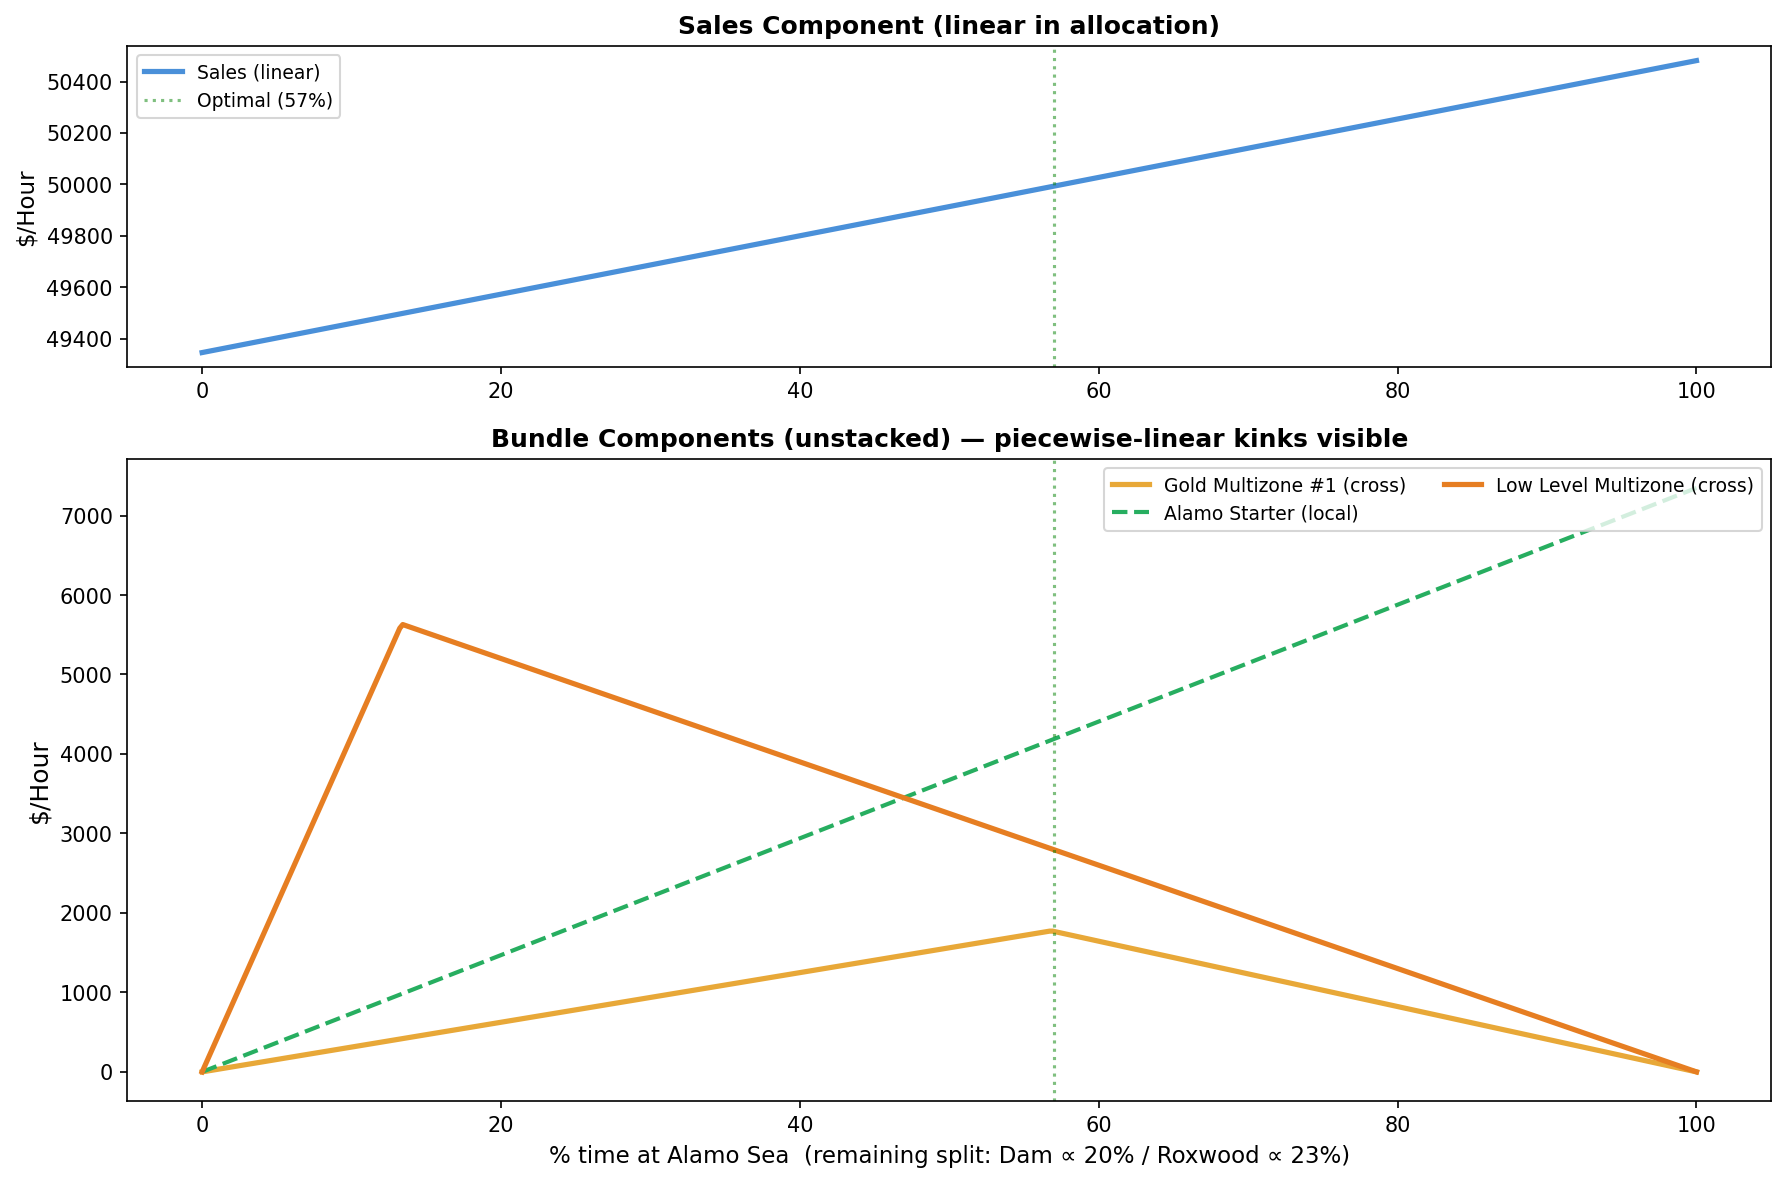
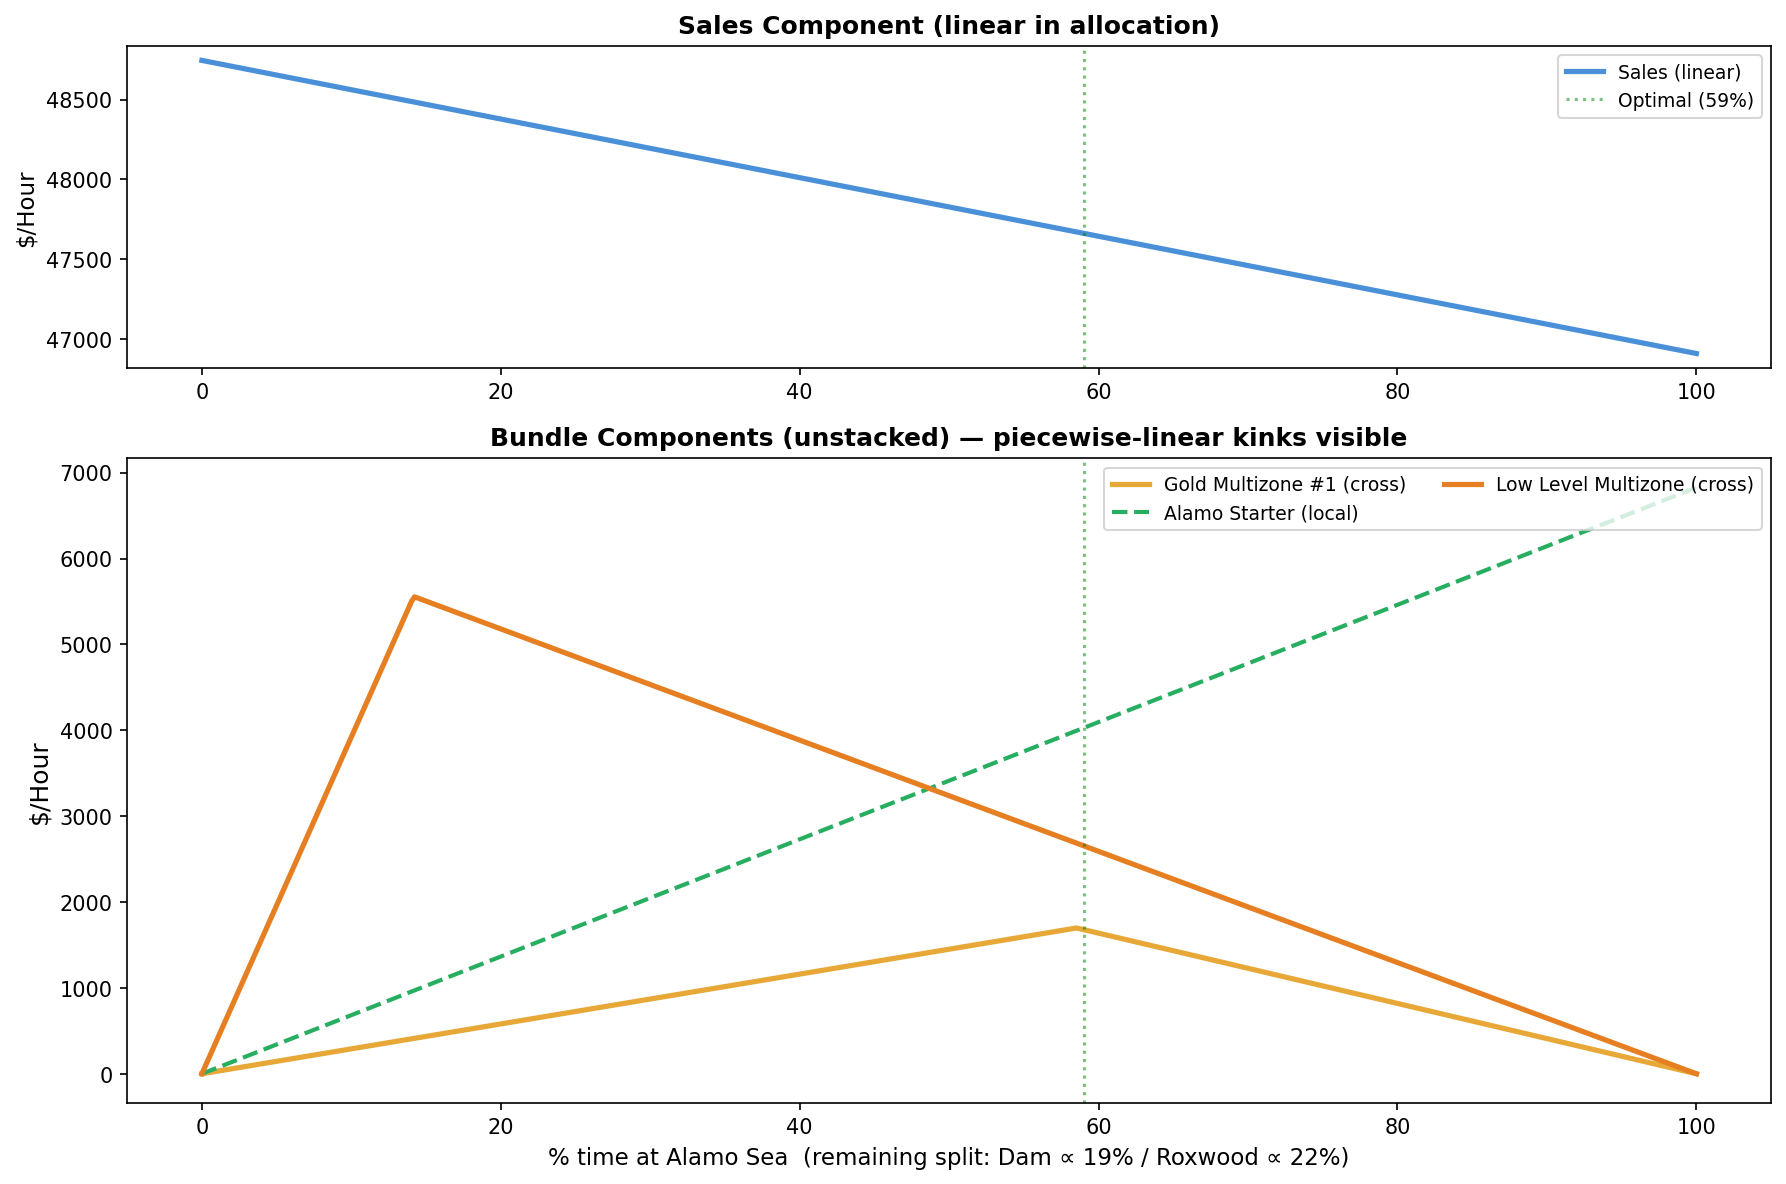
time

diff --git a/sales/constants.py b/sales/constants.py
@@ -161,9 +161,9 @@ SECONDS_WAITING_FOR_BITE: dict[str, int] = {
 }
 SECONDS_WAITING_FOR_BITE_DEFAULT = 100  # for unknown locations
 SECONDS_REELING_IN: dict[str, int] = {
-    "Alamo Sea": 15,
-    "Dam": 115 - SECONDS_WAITING_FOR_BITE["Dam"],
-    "Roxwood": 140 - SECONDS_WAITING_FOR_BITE["Roxwood"],
+    "Alamo Sea": 113 - SECONDS_WAITING_FOR_BITE["Alamo Sea"],
+    "Dam": 117 - SECONDS_WAITING_FOR_BITE["Dam"],
+    "Roxwood": 141 - SECONDS_WAITING_FOR_BITE["Roxwood"],
 }
 SECONDS_REELING_IN_DEFAULT = 30  # for unknown locations
 

diff --git a/sales/comparison.md b/sales/comparison.md
@@ -2,15 +2,15 @@
 
 Detected tier: 3 (Alamo Sea, Dam, Roxwood).
 
-Bite wait by location: Alamo Sea 90s, Dam 90s, Roxwood 100s. Reel-in by location: Alamo Sea 15s, Dam 25s, Roxwood 40s.
+Bite wait by location: Alamo Sea 90s, Dam 90s, Roxwood 100s. Reel-in by location: Alamo Sea 23s, Dam 27s, Roxwood 41s.
 
 ~ = estimated (not yet observed in catch data)
 
 | Location  | Fish Caught | $/Fish observed | $/Fish model | Available Bundles                                     | $/Fish (bundles) | $/Fish total (obs) | $/Fish total (model) | $/Hour (model) |
 |-----------|------------:|----------------:|-------------:|-------------------------------------------------------|-----------------:|-------------------:|---------------------:|---------------:|
-| Alamo Sea |         420 |          $1,472 |       $1,404 | Gold Multizone #1, Alamo Starter, Low Level Multizone |             $655 |             $2,127 |           **$2,059** |        $70,606 |
-| Dam       |         335 |          $1,664 |       $1,664 | Gold Multizone #1, Low Level Multizone                |             $369 |             $2,033 |           **$2,033** |        $63,644 |
-| Roxwood   |         256 |          $1,826 |       $1,849 | Gold Multizone #1, Low Level Multizone                |             $257 |             $2,083 |           **$2,107** |        $54,168 |
+| Alamo Sea |         420 |          $1,472 |       $1,404 | Gold Multizone #1, Alamo Starter, Low Level Multizone |             $655 |             $2,127 |           **$2,059** |        $65,607 |
+| Dam       |         335 |          $1,664 |       $1,664 | Gold Multizone #1, Low Level Multizone                |             $369 |             $2,033 |           **$2,033** |        $62,556 |
+| Roxwood   |         256 |          $1,826 |       $1,849 | Gold Multizone #1, Low Level Multizone                |             $257 |             $2,083 |           **$2,107** |        $53,784 |
 
 ## Optimal Allocation
 
@@ -18,13 +18,13 @@ Optimal time split across locations to maximize total $/hour (considering both s
 
 | Location     | Time % (obs) | $/Fish (obs) | $/Hour (obs) | Time % (model) | $/Fish (model) | $/Hour (model) |
 |--------------|-------------:|-------------:|-------------:|---------------:|---------------:|---------------:|
-| Alamo Sea    |          57% |       $1,472 |      $57,829 |            57% |         $1,404 |        $55,497 |
-| Dam          |          20% |       $1,664 |      $52,096 |            20% |         $1,664 |        $52,096 |
-| Roxwood      |          23% |       $1,826 |      $46,954 |            23% |         $1,849 |        $47,555 |
-| **Combined** |         100% |              |  **$58,744** |           100% |                |    **$57,553** |
+| Alamo Sea    |          59% |       $1,472 |      $53,735 |            15% |         $1,404 |        $51,568 |
+| Dam          |          19% |       $1,664 |      $51,206 |            39% |         $1,664 |        $51,206 |
+| Roxwood      |          22% |       $1,826 |      $46,621 |            46% |         $1,849 |        $47,218 |
+| **Combined** |         100% |              |  **$56,022** |           100% |                |    **$55,377** |
 
-**Observed:** splitting yields **$58,744**/hour vs **$57,829**/hour best solo (+$915/hour, +1.6%).
-**Model:** splitting yields **$57,553**/hour vs **$55,497**/hour best solo (+$2,056/hour, +3.7%).
+**Observed:** splitting yields **$56,022**/hour vs **$53,735**/hour best solo (+$2,288/hour, +4.3%).
+**Model:** splitting yields **$55,377**/hour vs **$51,568**/hour best solo (+$3,809/hour, +7.4%).
 
 ## Bundle Details
 
@@ -32,14 +32,14 @@ Optimal time split across locations to maximize total $/hour (considering both s
 
 | Bundle        | Fish                                     |   Bonus | Avg Fish to Complete | Avg Time | Bonus/Fish | Catch Rates                                                                              |
 |---------------|------------------------------------------|--------:|---------------------:|---------:|-----------:|------------------------------------------------------------------------------------------|
-| Alamo Starter | Morwhong, Southern Tuna, Silver Trevally | $10,000 |                   57 |  101 min |       $174 | Morwhong: 27/420 (6.4%) \| Southern Tuna: 9/420 (2.1%) \| Silver Trevally: 17/420 (4.0%) |
+| Alamo Starter | Morwhong, Southern Tuna, Silver Trevally | $10,000 |                   57 |  108 min |       $174 | Morwhong: 27/420 (6.4%) \| Southern Tuna: 9/420 (2.1%) \| Silver Trevally: 17/420 (4.0%) |
 
 ### Cross-Location
 
 | Bundle              | Fish                             |   Bonus | Avg Fish to Complete | Avg Time | Bonus/Fish | Catch Rates                                                                                                 |
 |---------------------|----------------------------------|--------:|---------------------:|---------:|-----------:|-------------------------------------------------------------------------------------------------------------|
-| Gold Multizone #1   | Bluefin Tuna, Musky, Dolphinfish | $12,750 |                  202 |  382 min |        $63 | Bluefin Tuna @ Alamo Sea: 3/420 (0.7%) \| Musky @ Dam: 17/335 (5.1%) \| Dolphinfish @ Roxwood: 6/256 (2.3%) |
-| Low Level Multizone | Scollop, Carp, Grenadier         | $11,000 |                   56 |  116 min |       $196 | Scollop @ Alamo Sea: 47/420 (11.2%) \| Carp @ Dam: 14/335 (4.2%) \| Grenadier @ Roxwood: 11/256 (4.3%)      |
+| Gold Multizone #1   | Bluefin Tuna, Musky, Dolphinfish | $12,750 |                  202 |  402 min |        $63 | Bluefin Tuna @ Alamo Sea: 3/420 (0.7%) \| Musky @ Dam: 17/335 (5.1%) \| Dolphinfish @ Roxwood: 6/256 (2.3%) |
+| Low Level Multizone | Scollop, Carp, Grenadier         | $11,000 |                   56 |  118 min |       $196 | Scollop @ Alamo Sea: 47/420 (11.2%) \| Carp @ Dam: 14/335 (4.2%) \| Grenadier @ Roxwood: 11/256 (4.3%)      |
 
 ## Drop Rate Analysis
 

diff --git a/sales/time.md b/sales/time.md
@@ -2,6 +2,12 @@
 
 ## Session Log
 
+### Alamo
+
+| Finished            | Rod | Fish | Duration | s/fish |
+|---------------------|----:|-----:|---------:|-------:|
+| 06 Apr 2026 04:15AM |   4 |   41 |  76m 55s | 112.6s |
+
 ### Dam
 
 | Finished            | Rod | Fish | Duration | s/fish |
@@ -19,6 +25,7 @@
 
 | Zone    | Rod | Sessions | Fish | Avg s/fish |
 |---------|----:|---------:|-----:|-----------:|
+| Alamo   |   4 |        1 |   41 |     112.6s |
 | Dam     |   3 |        2 |  115 |     117.3s |
 | Roxwood |   4 |        1 |   40 |     140.9s |
 
@@ -26,7 +33,8 @@
 
 | Zone    | Finished            | Electronics | Duration | s/electronic |
 |---------|---------------------|------------:|---------:|-------------:|
+| Alamo   | 06 Apr 2026 04:15AM |          99 |  76m 55s |        46.6s |
 | Dam     | 05 Apr 2026 03:51PM |          44 |  32m 49s |        44.8s |
 | Roxwood | 06 Apr 2026 12:58AM |         111 |  93m 57s |        50.8s |
 
-**Global average:** 49.1s/electronic (155 electronics in 126m 46s)
+**Global average:** 48.1s/electronic (254 electronics in 203m 41s)

diff --git a/sales/time-log.md b/sales/time-log.md
@@ -1,3 +1,13 @@
+# Alamo
+
+Rod Level: 4
+Start: 6 Apr 2026 @ 2:58:14am
+Finish: 6 Apr 2026 @ 4:15:09am
+Fish before: 0
+Electronics before: 0
+Fish after: 41
+Electronics after: 99
+
 # Dam
 
 Rod Level: 3
